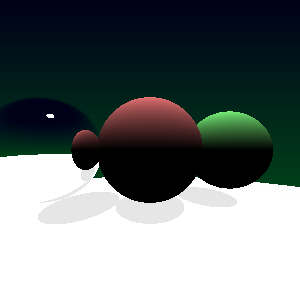
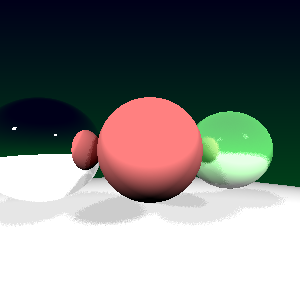
5 oh

Changed region(s): [[0.0, 0.3, 1.0, 0.75], [0.15, 0.36, 0.18, 0.39], [0.03, 0.42, 0.06, 0.45]]

diff --git a/assignment5/RayTracer.py b/assignment5/RayTracer.py
@@ -68,7 +68,6 @@ class RayTracer(object):
 
 	def ray_point_color(self, ray, depth=0):
 		if depth == MAX_DEPTH:
-			print "Hit da depth"
 			return RGBColor(0, 0, 0)
 
 		ray_hit_object, hit_point, hit_object, hit_distance = self.intersectedObject(ray)
@@ -84,11 +83,9 @@ class RayTracer(object):
 			color = hit_object.color
 			if hit_object.is_light is False and hit_object.is_mirror is False:
 				color = self.shade(color, hit_object, hit_point, normal_vector)
-				# shader = max(0.0, normal_vector.y)
-				# color = hit_object.colorAtPoint(hit_point) * shader
 
-			if hit_object.is_mirror:
-				color = self.reflect(hit_object, hit_point, ray, normal_vector, depth)
+			if hit_object.specular > 0:
+				color = self.reflect(color, hit_object, hit_point, ray, normal_vector, depth)
 
 			# Calculate shadows
 			if hit_object.casts_shadow:
@@ -110,14 +107,14 @@ class RayTracer(object):
 
 		lambert_amt = min(1, lambert_amt)
 
-		return color * lambert_amt
+		return color * (lambert_amt * hit_object.lambert)
 
 
 	def shadow(self, color, hit_object, hit_point, normal):
-		SHADOW_DEPTH = 2
+		SAMPLES = 50
 
 		for light in self.lights:
-			for _ in range(0, SHADOW_DEPTH):
+			for _ in range(0, SAMPLES):
 				ray = Ray(hit_point + normal * TINY, light.randomPointInSphere())
 
 				ray_hit_object, hp, ho, dis = self.intersectedObject(ray)
@@ -129,7 +126,7 @@ class RayTracer(object):
 		# return RGBColor(0, 0, 0)
 
 
-	def reflect(self, obj, initial_hit, ray, normal, depth):
+	def reflect(self, color, obj, initial_hit, ray, normal, depth):
 		# https://www.cs.unc.edu/~rademach/xroads-RT/RTarticle.html
 		c1 = -dot(ray.destination, normal) #This is a integer!!
 		reflection = ray.destination + (2 * normal * c1)
@@ -141,14 +138,18 @@ class RayTracer(object):
 		# rand_reflect = Vec3(reflection.x + random.uniform(-1, 1), reflection.y + random.uniform(-1, 1), reflection.z + random.uniform(-1, 1))
 
 
+		# We only need to do multiple samples if the smudge is high.
+		if obj.smudge > 0:
+			SAMPLES = 30
+		else:
+			SAMPLES = 1
 
-		SAMPLES = 1
 		sum_r = 0
 		sum_g = 0
 		sum_b = 0
 
 		for _ in range(0, SAMPLES):
-			dist = 0.1
+			dist = obj.smudge
 
 			rand_reflect = Vec3(reflection.x + random.uniform(-dist, dist), reflection.y + random.uniform(-dist, dist), reflection.z + random.uniform(-dist, dist))
 
@@ -160,8 +161,13 @@ class RayTracer(object):
 			sum_b += c.b
 
 
-		color = RGBColor(sum_r/SAMPLES, sum_g/SAMPLES, sum_b/SAMPLES)
-		return color
+		reflect_color = RGBColor(sum_r/SAMPLES, sum_g/SAMPLES, sum_b/SAMPLES)
+
+		if obj.is_mirror:
+			return reflect_color
+		else:
+			return color + (reflect_color * obj.specular)
+
 
 	def is_visible(self, src, dest):
 		hit, pt, obj, dis = self.intersectedObject(Ray(src.center, unit(dest.center)))
@@ -180,26 +186,37 @@ class RayTracer(object):
 							is_light=True)
 		self.objects.append(light_sphere)
 
+		light_center2 = Vec3(-10, 10, 10)
+		light_sphere2 = Sphere(light_center2, 1,
+							color=RGBColor(1.0, 1.0, 1.0),
+							is_light=True)
+		# self.objects.append(light_sphere2)
+
 		sphere1_center = Vec3(0, 0, -3)
 		red_center = Sphere(sphere1_center, 1,
-							color=RGBColor(1.0, 0.5, 0.5)) #Red
+							color=RGBColor(1.0, 0.5, 0.5),
+							lambert=1) #Red
 		self.objects.append(red_center)
 
 		sphere2_center = Vec3(2, 0, -4)
 		green_right = Sphere(sphere2_center, 1,
-							color=RGBColor(0.5, 1.0, 0.5)) #Green
+							color=RGBColor(0.5, 1.0, 0.5),
+							lambert=0.8,
+							specular=0.5,
+							smudge=0.1) #Green
 		self.objects.append(green_right)
 
 		sphere3_center = Vec3(-2, 0, -3)
 		blue_left = Sphere(sphere3_center, 1,
-							color=RGBColor(0.5, 0.5, 1.0),
+							color=RGBColor(1.0, 1.0, 1.0),
 							is_mirror=True) #Blue
 		self.objects.append(blue_left)
 
 		sphere4_center = Vec3(0, -100, 0)
 		circle4 = Sphere(sphere4_center, 98.5,
 							color=RGBColor(1.0, 1.0, 1.0),
-							name="Monster")
+							name="Monster",
+							lambert=1)
 		self.objects.append(circle4)
 
 
@@ -218,7 +235,7 @@ class Ray(object):
 
 if __name__ == '__main__':
 	# Vec3(left right, up down, back forth)
-	tracer = RayTracer(400, 400, Vec3(0, 0, 0))
+	tracer = RayTracer(1000, 1000, Vec3(0, 0, 0))
 	tracer.add_objects()
 	tracer.trace()
 	tracer.export("out.png")

diff --git a/assignment5/TracerObjects.py b/assignment5/TracerObjects.py
@@ -6,20 +6,30 @@ from math import sqrt, pow, pi, floor
 import random
 
 class Sphere(object):
-	def __init__(self, center, radius, color=None, pattern="solid", name=None, is_mirror=False, is_light=False, casts_shadow=None, lambert=0):
+	def __init__(self, center, radius, color=None, pattern="solid", name=None, is_mirror=False, is_light=False, casts_shadow=None, lambert=0.3, specular=0.0, smudge=0.0):
 		self.center = center
 		self.radius = float(radius)
 		self.color = color
 		self.pattern = pattern
 
 		self.is_mirror = is_mirror
+		if is_mirror:
+			self.specular = 1
+		else:
+			self.specular = specular
+
 		self.is_light = is_light
 		if casts_shadow == None:
 			self.casts_shadow = False if self.is_light else True
 		else:
 			self.casts_shadow = casts_shadow
 
-		self.lambert = lambert
+		if self.is_light:
+			self.lambert = 1
+		else:
+			self.lambert = lambert
+
+		self.smudge = smudge
 
 		if name == None:
 			self.name = "A circle of size {0} at {1}".format(self.radius, self.center)

diff --git a/assignment5/GraphicsUtils.py b/assignment5/GraphicsUtils.py
@@ -4,6 +4,9 @@ class RGBColor(object):
 		self.g = float(g)
 		self.b = float(b)
 
+	def __add__(self, b):
+		return RGBColor(self.r + b.r, self.g + b.g, self.b + b.b)
+
 	def __rmul__(self, b):
 		return self.__mul__(b)
 
